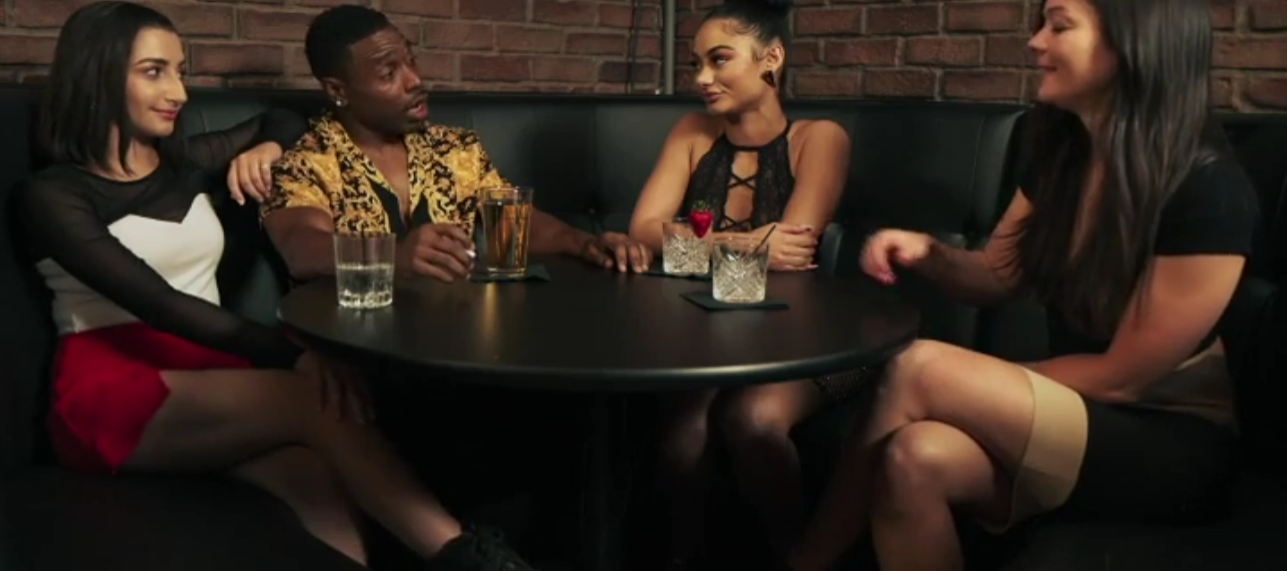
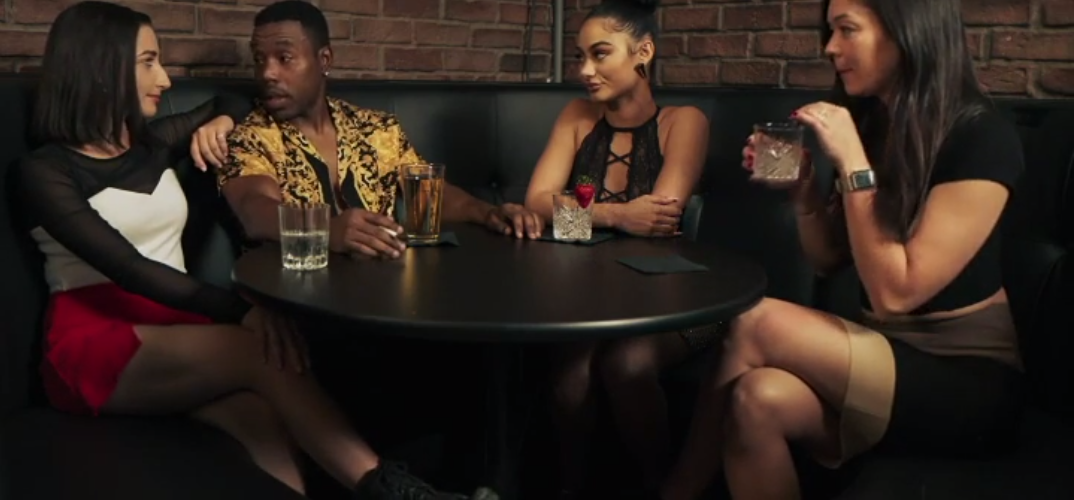
fix

diff --git a/pages/film.tsx b/pages/film.tsx
@@ -7,7 +7,7 @@ export default function Film() {
       <div className="w-[860px] max-w-full flex flex-col gap-8" data-aos="fade" data-aos-duration="500">
         <div className="flex flex-col gap-2">
           <h1>2023 Reel</h1>
-          <video className="w-full h-full" src="https://res.cloudinary.com/de7ukpiqr/video/upload/v1698718439/MOV_7148_auxqvx.mp4" controls poster="/images/2023reel.png" />
+          <video className="w-full h-full object-fill aspect-[16/8]" src="https://res.cloudinary.com/de7ukpiqr/video/upload/v1698718439/MOV_7148_auxqvx.mp4" controls poster="/images/2023reel.png" />
         </div>
         <div className="flex flex-col gap-2">
           <h1>2022 Reel</h1>
